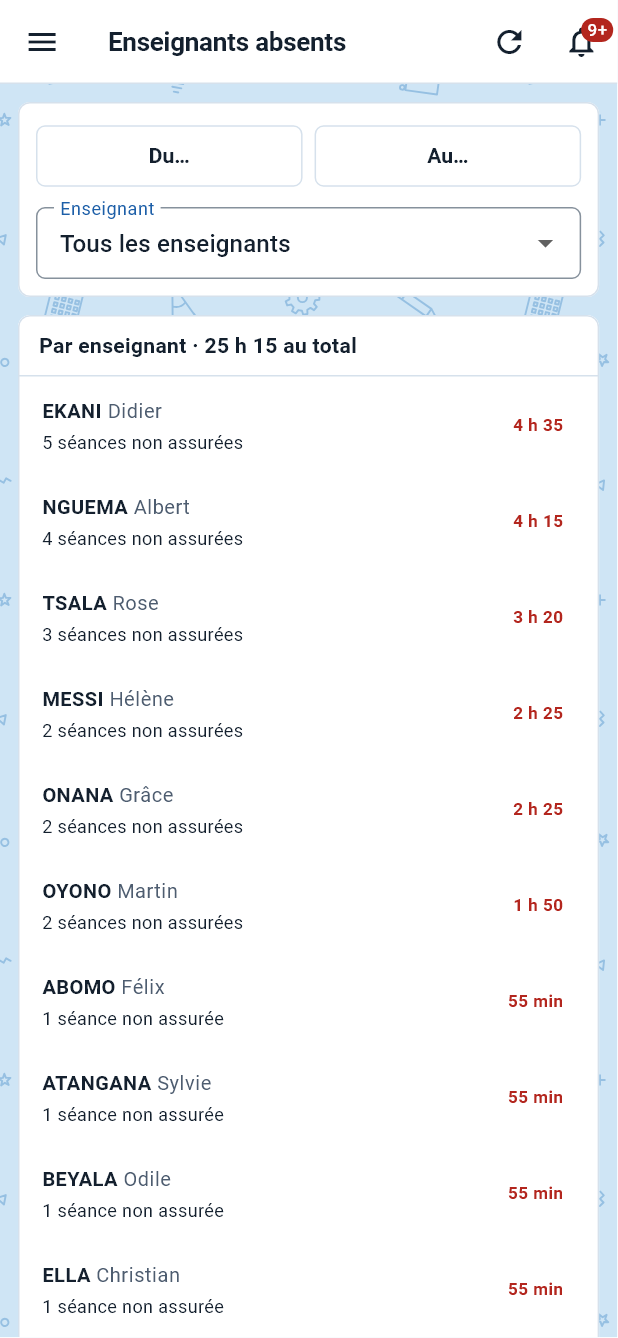
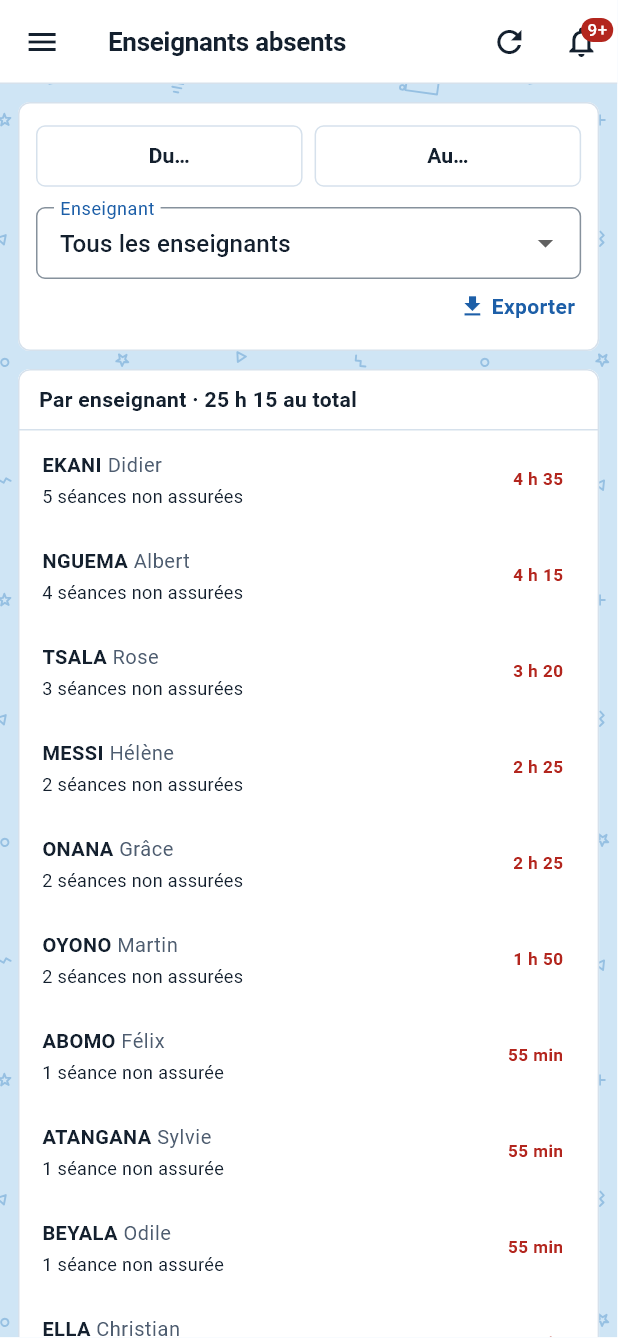
Mobile : export Excel ou PDF des enseignants absents et de l'emploi du temps
Menu « Exporter » commun (MenuExporter), placé sur les deux écrans avec
les mêmes filtres que le site. Captures des deux écrans refaites.

diff --git a/mobile/lib/ecrans/emploi_du_temps.dart b/mobile/lib/ecrans/emploi_du_temps.dart
@@ -367,14 +367,17 @@ class _EcranEmploiDuTempsState extends State<EcranEmploiDuTemps> {
                         changer: (v) => setState(() => _versionId = v),
                       ),
                     ],
-                    if (sg)
-                      Wrap(spacing: 8, children: [
+                    Wrap(spacing: 8, crossAxisAlignment: WrapCrossAlignment.center, children: [
+                        // L'emploi du temps affiché (classe et version), en tableau : Excel ou PDF.
+                        MenuExporter(
+                            chemin: '/emplois-du-temps/export?classeId=$classeId${version == null ? '' : '&versionId=${version['id']}'}'),
+                        if (sg)
                         TextButton.icon(
                           icon: const Icon(Icons.edit_calendar_outlined, size: 18),
                           label: const Text('Nouvelle version'),
                           onPressed: () => _nouvelleVersion(classeId, vue),
                         ),
-                        if (version != null && versions.length > 1)
+                        if (sg && version != null && versions.length > 1)
                           TextButton.icon(
                             style: TextButton.styleFrom(foregroundColor: c.danger),
                             icon: const Icon(Icons.delete_outline, size: 18),

diff --git a/mobile/lib/widgets.dart b/mobile/lib/widgets.dart
@@ -489,3 +489,27 @@ class _ChampMotDePasseState extends State<ChampMotDePasse> {
         ),
       );
 }
+
+/// Menu « Exporter » (Excel ou PDF) : ouvre le document reçu à l'adresse donnée, complétée par « format=… ».
+class MenuExporter extends StatelessWidget {
+  const MenuExporter({super.key, required this.chemin});
+  final String chemin;
+
+  @override
+  Widget build(BuildContext context) {
+    final couleur = Theme.of(context).colorScheme.primary;
+    return PopupMenuButton<String>(
+      tooltip: 'Exporter',
+      onSelected: (format) => agir(context, () => Api.i.ouvrirDocument('$chemin${chemin.contains('?') ? '&' : '?'}format=$format')),
+      itemBuilder: (_) => const [PopupMenuItem(value: 'xlsx', child: Text('Excel')), PopupMenuItem(value: 'pdf', child: Text('PDF'))],
+      child: Padding(
+        padding: const EdgeInsets.symmetric(vertical: 8, horizontal: 4),
+        child: Row(mainAxisSize: MainAxisSize.min, children: [
+          Icon(Icons.download, size: 18, color: couleur),
+          const SizedBox(width: 4),
+          Text('Exporter', style: TextStyle(fontWeight: FontWeight.w600, color: couleur)),
+        ]),
+      ),
+    );
+  }
+}

diff --git a/mobile/lib/ecrans/enseignants_absents.dart b/mobile/lib/ecrans/enseignants_absents.dart
@@ -84,6 +84,9 @@ class _EcranEnseignantsAbsentsState extends State<EcranEnseignantsAbsents> {
                   options: [('', 'Tous les enseignants'), for (final e in _enseignants ?? const <Map>[]) (e['id'] as String, '${e['nom']} ${e['prenom']}')],
                   changer: (v) => setState(() => _enseignant = v == null || v.isEmpty ? null : v),
                 ),
+                // Mêmes filtres : classeur Excel ou PDF à imprimer.
+                if (seances.isNotEmpty)
+                  Align(alignment: Alignment.centerRight, child: MenuExporter(chemin: '/absences/enseignants/export?${Uri(queryParameters: p).query}')),
               ]),
             ),
           ),
